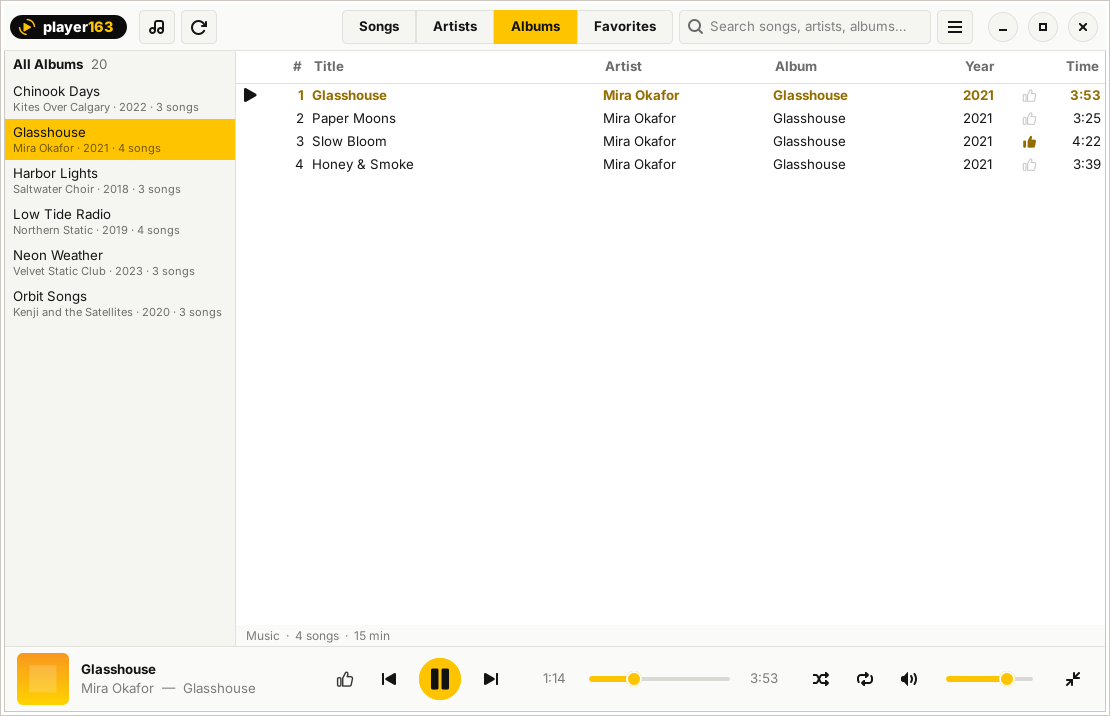
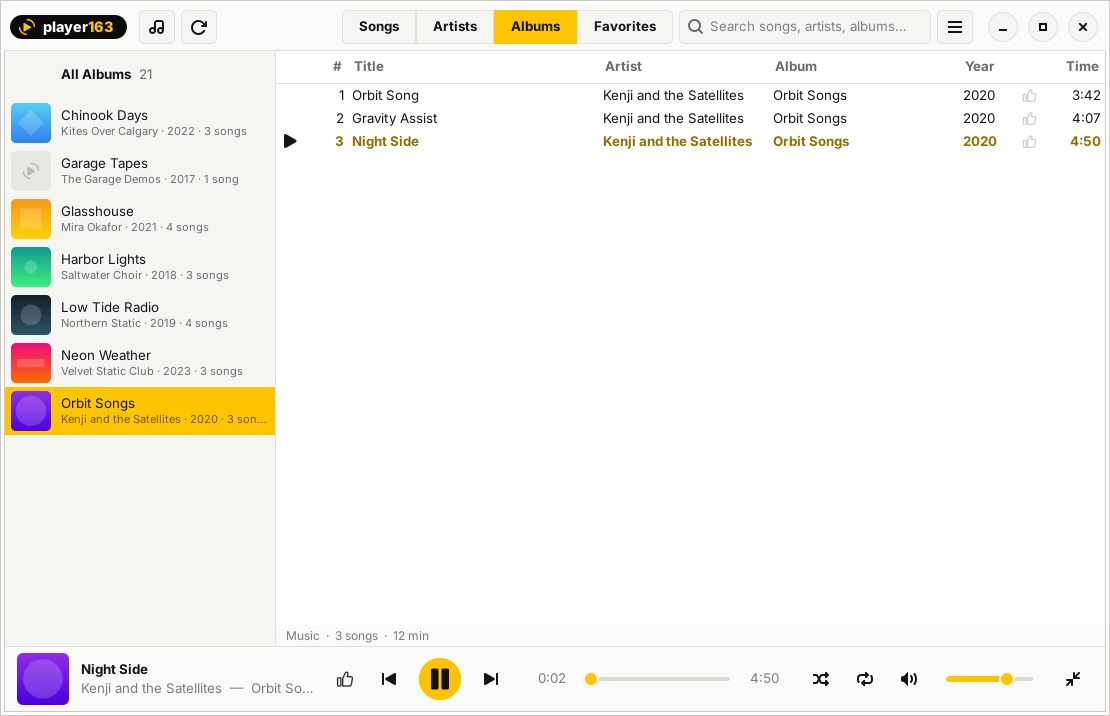
1.4.0: album artwork, remember window position and selection, fix All rows

diff --git a/src/player163.py b/src/player163.py
@@ -16,6 +16,7 @@ import base64
 import hashlib
 import json
 import os
+import queue
 import random
 import re
 import sqlite3
@@ -50,12 +51,14 @@ except ImportError:  # pragma: no cover
 
 APP_NAME = "player163"
 APP_ID = "com.smokyfish.Player163"
-VERSION = "1.3.0"
+VERSION = "1.4.0"
 
 CONFIG_DIR = os.path.join(GLib.get_user_config_dir(), "player163")
 DATA_DIR = os.path.join(GLib.get_user_data_dir(), "player163")
 CACHE_DIR = os.path.join(GLib.get_user_cache_dir(), "player163")
 CONFIG_FILE = os.path.join(CONFIG_DIR, "config.json")
+THUMB_DIR = os.path.join(CACHE_DIR, "thumbs")
+ALBUM_THUMB = 40
 
 AUDIO_EXTS = {
     ".mp3", ".mp2", ".flac", ".m4a", ".m4b", ".mp4", ".alac", ".aac", ".ogg", ".oga",
@@ -65,7 +68,7 @@ AUDIO_EXTS = {
 
 UNKNOWN_ARTIST = "Unknown Artist"
 UNKNOWN_ALBUM = "Unknown Album"
-ALL_KEY = "\x00ALL"
+ALL_KEY = "__player163_all__"  # must not contain NUL: GTK stores C strings
 ART_SIZE = 52
 
 # ----------------------------------------------------------------------------------------
@@ -111,6 +114,20 @@ def to_year(s):
 
 def esc(s):
     return GLib.markup_escape_text(s or "")
+
+
+def on_screen(x, y):
+    """True if (x, y) lies on a connected monitor (a saved window spot may be on an unplugged screen)."""
+    try:
+        x, y = int(x), int(y)
+        disp = Gdk.Display.get_default()
+        for i in range(disp.get_n_monitors()):
+            g = disp.get_monitor(i).get_geometry()
+            if g.x <= x < g.x + g.width - 60 and g.y <= y < g.y + g.height - 60:
+                return True
+    except Exception:
+        pass
+    return False
 
 
 def load_config():
@@ -1240,6 +1257,70 @@ def thumb_surface(size, filled, color, alpha=1.0, scale=1):
         return None
 
 
+def placeholder_surface(size, bg, fg, scale=1):
+    """Rounded square with a faint player163 mark, for albums without artwork."""
+    if cairo is None:
+        return None
+    try:
+        surf = cairo.ImageSurface(cairo.FORMAT_ARGB32, size * scale, size * scale)
+        surf.set_device_scale(scale, scale)
+        cr = cairo.Context(surf)
+        _rounded_rect(cr, 0, 0, size, size, 5)
+        cr.set_source_rgb(*_hex_rgb(bg))
+        cr.fill()
+        cr.translate(size * 0.27, size * 0.27)
+        draw_logo(cr, size * 0.46, background=False, color=fg)
+        return surf
+    except Exception:
+        return None
+
+
+class ThumbLoader:
+    """Album-art thumbnails, made in a background thread and cached on disk."""
+
+    def __init__(self, size, scale, on_ready):
+        self.size, self.scale, self.on_ready = size, scale, on_ready
+        self.q = queue.Queue()
+        self.pending = set()  # touched only from the main thread
+        threading.Thread(target=self._run, daemon=True).start()
+
+    def request(self, key, path):
+        if key not in self.pending:
+            self.pending.add(key)
+            self.q.put((key, path))
+
+    def _cache_base(self, key, path):
+        try:
+            tm = os.stat(path).st_mtime
+            dm = os.stat(os.path.dirname(path)).st_mtime  # changes when a cover.jpg is added
+        except OSError:
+            tm = dm = 0
+        raw = "%s|%s|%s|%s|%d" % (key, path, tm, dm, self.size * self.scale)
+        return os.path.join(THUMB_DIR, hashlib.md5(raw.encode("utf-8", "surrogateescape"),
+                                                   usedforsecurity=False).hexdigest())
+
+    def _run(self):
+        while True:
+            key, path = self.q.get()
+            pb = None
+            try:
+                base = self._cache_base(key, path)
+                if os.path.exists(base + ".png"):
+                    pb = GdkPixbuf.Pixbuf.new_from_file(base + ".png")
+                elif not os.path.exists(base + ".none"):
+                    data = find_cover(path)
+                    pb = pixbuf_from_bytes(data, self.size * self.scale) if data else None
+                    os.makedirs(THUMB_DIR, exist_ok=True)
+                    if pb is not None:
+                        pb = rounded_pixbuf(pb, 5 * self.scale)
+                        pb.savev(base + ".png", "png", [], [])
+                    else:
+                        open(base + ".none", "w").close()
+            except Exception:
+                pb = None
+            GLib.idle_add(self.on_ready, key, path, pb)
+
+
 def logo_pixbuf(size, background=True, color=BRAND_YELLOW, bg_color="#0b0b0b"):
     if cairo is None:
         return None
@@ -1404,7 +1485,7 @@ class MiniPlayer(Gtk.ApplicationWindow):
 
     def show_mini(self):
         x, y = self.main.cfg.get("mini_x"), self.main.cfg.get("mini_y")
-        if x is not None and y is not None:
+        if x is not None and y is not None and on_screen(x, y):
             self.move(int(x), int(y))
         else:
             mx, my = self.main.get_position()
@@ -1493,6 +1574,8 @@ class MainWindow(Gtk.ApplicationWindow):
         self.set_default_size(self.cfg.get("width", 1080), self.cfg.get("height", 680))
         if self.cfg.get("maximized"):
             self.maximize()
+        if "x" in self.cfg and on_screen(self.cfg["x"], self.cfg["y"]):
+            self.move(int(self.cfg["x"]), int(self.cfg["y"]))
         self.set_icon_name("player163")
 
         self.library = Library(os.path.join(DATA_DIR, "library.db"))
@@ -1506,7 +1589,8 @@ class MainWindow(Gtk.ApplicationWindow):
         self.pending = None          # (queue pos, path) of the file the engine is about to start
         self.extra = {}              # tracks opened from outside the library folder
         self.mode = self.cfg.get("mode", "songs") if self.cfg.get("mode") in ("songs", "artists", "albums", "favorites") else "songs"
-        self.group_sel = None
+        self.group_sel = self.cfg.get("sel_" + self.mode) if self.mode in ("artists", "albums") else None
+        self.album_thumbs = {}       # album key -> (track path, cairo surface or None)
         self.sort_col = None
         self.sort_desc = False
         self.visible_paths = []
@@ -1525,7 +1609,7 @@ class MainWindow(Gtk.ApplicationWindow):
         self._scan_new = set()
 
         self._apply_css()
-        self._main_pos = None
+        self._main_pos = (int(self.cfg["x"]), int(self.cfg["y"])) if "x" in self.cfg and on_screen(self.cfg["x"], self.cfg["y"]) else None
         self._build_ui()
         self.mini = MiniPlayer(self)
         self.update_fav_buttons()
@@ -1561,6 +1645,7 @@ class MainWindow(Gtk.ApplicationWindow):
             if last and last in self.library.tracks:
                 self._resume = (last, float(self.cfg.get("last_pos", 0)))
                 self._show_now_playing(last)
+                GLib.idle_add(self._scroll_to_path, last)
         else:
             self.stack.set_visible_child_name("empty")
         self._set_play_icon()
@@ -1705,7 +1790,15 @@ class MainWindow(Gtk.ApplicationWindow):
         self.group_view.get_style_context().add_class("sidebar-list")
         self.group_view.set_search_equal_func(self._group_search_eq)
         gcell = Gtk.CellRendererText(ellipsize=Pango.EllipsizeMode.END, ypad=4, xpad=6)
-        self.group_view.append_column(Gtk.TreeViewColumn("", gcell, markup=1))
+        gcol = Gtk.TreeViewColumn("")
+        self.thumb_cell = Gtk.CellRendererPixbuf(xpad=4, ypad=3)
+        self.thumb_cell.set_fixed_size(ALBUM_THUMB + 8, ALBUM_THUMB + 6)
+        gcol.pack_start(self.thumb_cell, False)
+        gcol.set_cell_data_func(self.thumb_cell, self._cell_group_thumb)
+        gcol.pack_start(gcell, True)
+        gcol.add_attribute(gcell, "markup", 1)
+        self.group_view.append_column(gcol)
+        self._thumb_loader = ThumbLoader(ALBUM_THUMB, max(1, self.get_scale_factor()), self._thumb_ready)
         self.group_view.get_selection().connect("changed", self._on_group_changed)
         self.group_view.connect("button-press-event", self._on_group_button)
         self.group_view.connect("row-activated", lambda *a: self.play_visible(None))
@@ -1881,9 +1974,44 @@ class MainWindow(Gtk.ApplicationWindow):
         sel = self.song_view.get_selection().iter_is_selected(it)
         cell.set_property("surface", self._thumbs["list_" + ("on" if on else "off") + ("_sel" if sel else "")])
 
+    def _cell_group_thumb(self, col, cell, model, it, data):
+        if self.mode != "albums":
+            cell.set_visible(False)
+            return
+        cell.set_visible(True)
+        key = model.get_value(it, 0)
+        if key == ALL_KEY:
+            cell.set_property("surface", self._blank_thumb)
+            return
+        e = self.album_thumbs.get(key)
+        cell.set_property("surface", e[1] if e and e[1] is not None else self._album_placeholder)
+
+    def _thumb_ready(self, key, path, pb):
+        self._thumb_loader.pending.discard(key)
+        surf = None
+        if pb is not None:
+            try:
+                surf = Gdk.cairo_surface_create_from_pixbuf(pb, max(1, self.get_scale_factor()), None)
+            except Exception:
+                surf = None
+        self.album_thumbs[key] = (path, surf)
+        if self.mode == "albums":
+            self.group_view.queue_draw()
+        return False
+
     def _render_thumbs(self):
         pal = PALETTES[self.scheme]
         sf = max(1, self.get_scale_factor())
+        if cairo is not None:
+            self._blank_thumb = cairo.ImageSurface(cairo.FORMAT_ARGB32, ALBUM_THUMB * sf, ALBUM_THUMB * sf)
+            self._blank_thumb.set_device_scale(sf, sf)
+        else:
+            self._blank_thumb = None
+        self._album_placeholder = placeholder_surface(
+            ALBUM_THUMB, "#1e1e1e" if self.scheme == "dark" else "#e8e8e3",
+            "#4a4a4a" if self.scheme == "dark" else "#b9b9b3", sf)
+        if hasattr(self, "group_view"):
+            self.group_view.queue_draw()
         self._thumbs = {
             "list_on": thumb_surface(15, True, pal["accent_text"], 1.0, sf),
             "list_on_sel": thumb_surface(15, True, pal["accent_fg"], 1.0, sf),
@@ -1940,7 +2068,9 @@ class MainWindow(Gtk.ApplicationWindow):
             key = t["d_artist"] if self.mode == "artists" else t["album_key"]
             g = groups.get(key)
             if g is None:
-                groups[key] = g = {"n": 0, "t": t, "albums": set(), "year": ""}
+                groups[key] = g = {"n": 0, "t": t, "albums": set(), "year": "", "rep": t}
+            if (t["disc"], t["track"], t["path"]) < (g["rep"]["disc"], g["rep"]["track"], g["rep"]["path"]):
+                g["rep"] = t  # first track of the album: its art (or folder cover) is the album's
             g["n"] += 1
             g["albums"].add(t["album"])
             if t["year"] and (not g["year"] or t["year"] < g["year"]):
@@ -1971,6 +2101,10 @@ class MainWindow(Gtk.ApplicationWindow):
                         bits.append(g["year"])
                     bits.append("%d song%s" % (g["n"], "" if g["n"] == 1 else "s"))
                     markup = "%s\n<small><span alpha='60%%'>%s</span></small>" % (esc(t["d_album"]), " · ".join(bits))
+                    rep_path = g["rep"]["path"]
+                    have = self.album_thumbs.get(k)
+                    if have is None or have[0] != rep_path:
+                        self._thumb_loader.request(k, rep_path)
                 self.group_store.append([k, markup])
             self.group_view.set_model(self.group_store)
             sel = self.group_view.get_selection()
@@ -2072,7 +2206,7 @@ class MainWindow(Gtk.ApplicationWindow):
         if not btn.get_active() or not self._ready:
             return
         self.mode = key
-        self.group_sel = None
+        self.group_sel = self.cfg.get("sel_" + key) if key in ("artists", "albums") else None
         self.sort_col = None
         self._update_sort_indicators()
         self._apply_mode_visibility()
@@ -2085,6 +2219,8 @@ class MainWindow(Gtk.ApplicationWindow):
         model, it = sel.get_selected()
         key = model.get_value(it, 0) if it else ALL_KEY
         self.group_sel = None if key == ALL_KEY else key
+        if self.mode in ("artists", "albums"):
+            self.cfg["sel_" + self.mode] = self.group_sel
         self.sort_col = None
         self._update_sort_indicators()
         self.refresh_songs()
@@ -2137,6 +2273,9 @@ class MainWindow(Gtk.ApplicationWindow):
             self._scan_gen += 1
             self.library.clear()
             self.group_sel = None
+            self.album_thumbs.clear()
+            for k in ("sel_artists", "sel_albums", "last_path", "last_pos"):
+                self.cfg.pop(k, None)
             self.cfg["folder"] = path
             save_config(self.cfg)
         self.stack.set_visible_child_name("library")
@@ -2226,6 +2365,7 @@ class MainWindow(Gtk.ApplicationWindow):
                         if old:
                             self.library.move_favorite(old, p)
         self._scan_new = set()
+        self.album_thumbs.clear()  # covers may have been added/changed; the disk cache makes this cheap
         self.scan_spinner.stop()
         self.scan_spinner.hide()
         if self._scan_refresh_id:
@@ -2840,6 +2980,7 @@ class MainWindow(Gtk.ApplicationWindow):
 
     def _write_done(self, tracks, errors):
         self._writing = False
+        self.album_thumbs.clear()
         lib = [t for t in tracks if t["path"] in self.library.tracks]
         self.library.upsert(lib)
         for t in tracks:
@@ -2939,10 +3080,19 @@ class MainWindow(Gtk.ApplicationWindow):
         a.run()
         a.destroy()
 
+    def _scroll_to_path(self, path):
+        i = self.row_index.get(path)
+        if i is not None:
+            self.song_view.scroll_to_cell(Gtk.TreePath(i), None, True, 0.4, 0)
+        return False
+
     def save_state(self):
         if not self.is_maximized():
             w, h = self.get_size()
             self.cfg["width"], self.cfg["height"] = w, h
+            pos = self.get_position() if self.get_visible() else self._main_pos
+            if pos:
+                self.cfg["x"], self.cfg["y"] = int(pos[0]), int(pos[1])
         self.cfg["maximized"] = self.is_maximized()
         self.cfg["pane"] = self.paned.get_position() if self.sidebar.get_visible() else self.cfg.get("pane", 250)
         for sid, col in self.sort_columns.items():

diff --git a/CHANGELOG.md b/CHANGELOG.md
@@ -2,6 +2,18 @@
 
 All notable changes to player163. Newest first.
 
+## [1.4.0] — 2026-11-11
+
+### Added
+- **Album artwork in the Albums list**: each album shows a small cover thumbnail (from the songs' embedded art or a cover.jpg in the folder). Albums without art get a subtle placeholder. Thumbnails load in the background and are cached, so large libraries stay fast.
+
+### Changed
+- Remembers more between sessions: the window's position, and the artist or album you had selected in each view. On startup the list scrolls to the song you were last playing.
+- A remembered window position on a monitor that's no longer connected is ignored, so the window never opens off-screen.
+
+### Fixed
+- Clicking "All Artists" or "All Albums" after selecting an artist or album showed an empty list instead of every song.
+
 ## [1.3.0] — 2026-11-11
 
 ### Added

diff --git a/README.md b/README.md
@@ -39,7 +39,8 @@ like any other update. To turn this off, disable the source in
 
 1. Click **Choose Music Folder…** and pick where your music lives. It scans it once;
    after that, starting the app or pressing **F5** only re-reads new or changed files.
-2. Switch between **Songs / Artists / Albums** at the top. Just start typing to search.
+2. Switch between **Songs / Artists / Albums / Favorites** at the top. Just start typing to search.
+   The Albums list shows each album's cover art.
 3. Double-click (or Enter) to play. The queue is whatever list you're looking at.
 
 ### Fixing tags (typos etc.)
